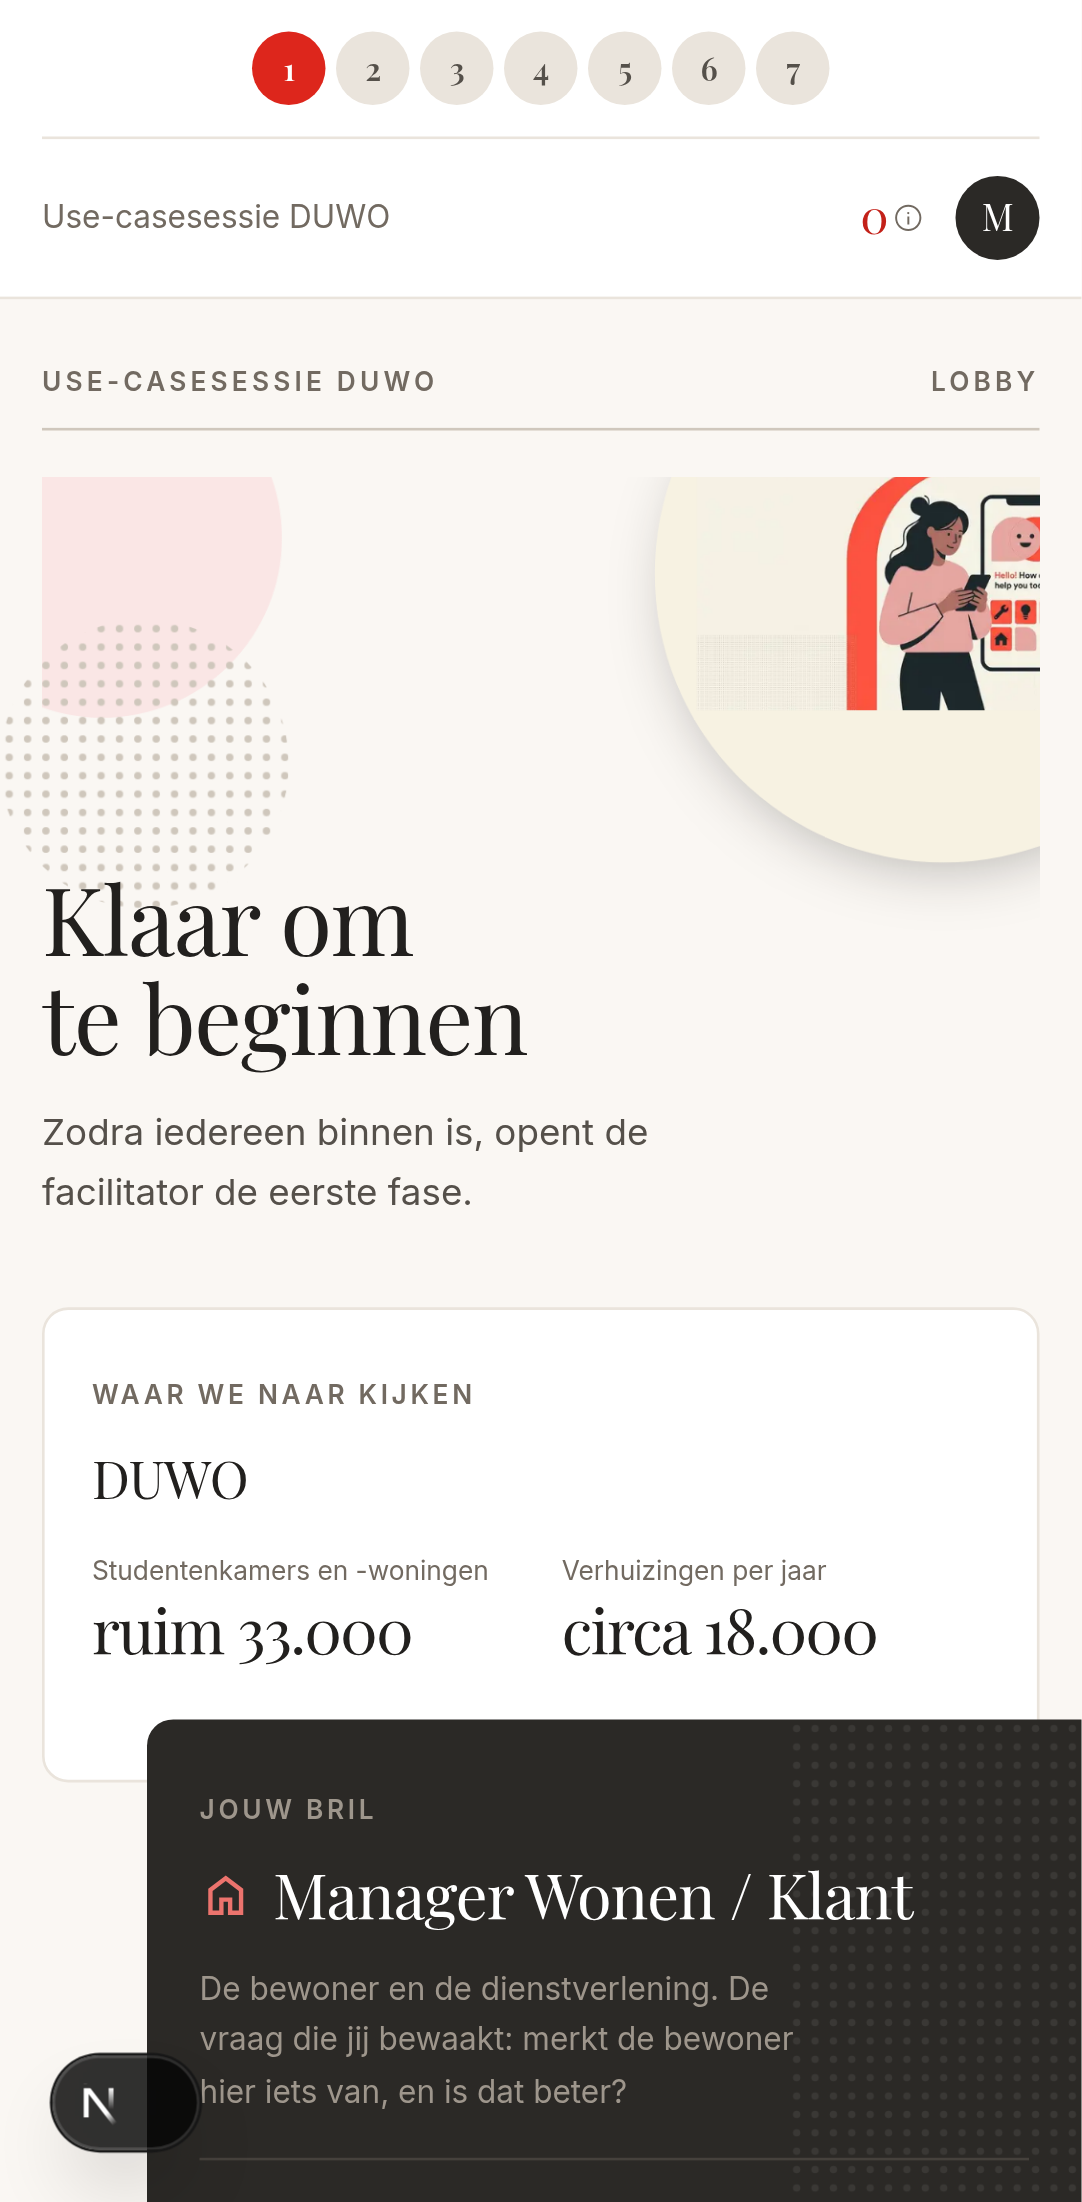
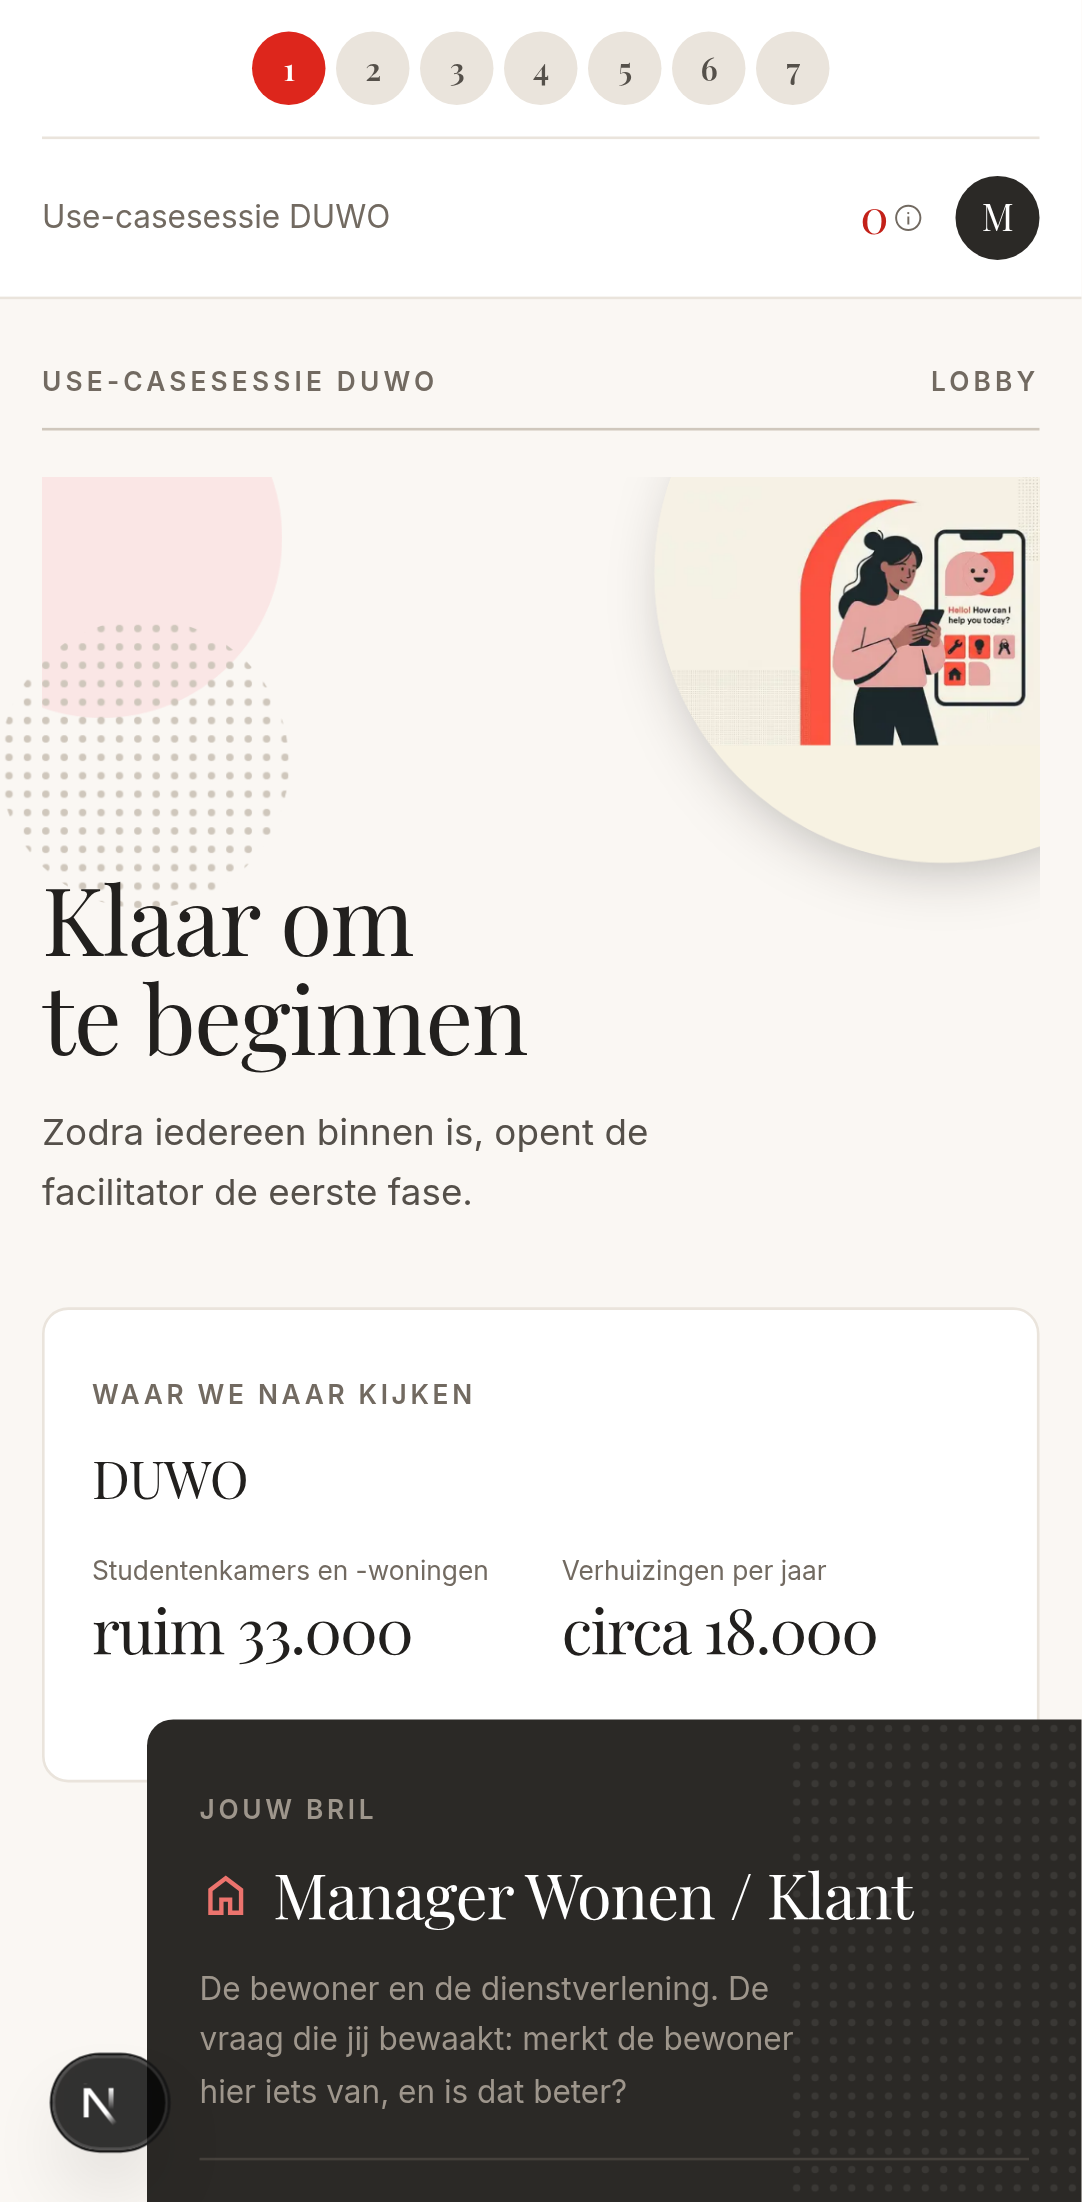
Lobby-illustratie iets naar links en beneden binnen de cirkel
Cirkel.afbeelding kreeg verschuifX/verschuifY: een verschuiving in procenten
van de foto's eigen maat, toegepast als transform op de al ongesneden
(object-contain) afbeelding. De lobby-illustratie gebruikt dit nu om iets
naar links en beneden te schuiven binnen haar cirkel.

Changed region(s): [[0.732, 0.2162, 0.976, 0.3397], [0.122, 0.9264, 0.183, 0.9882]]

diff --git a/src/components/decoratie.tsx b/src/components/decoratie.tsx
@@ -66,8 +66,13 @@ export function Cirkel({
    * zoals de effen vulling: een cirkel snijdt een illustratie al genoeg af aan de buitenrand, en
    * mag het onderwerp zelf niet nóg verder wegsnijden. Net als de effen cirkel puur decoratief —
    * geen tekst hoort hier ooit overheen te vallen.
+   *
+   * `verschuifX`/`verschuifY` schuiven de ongesneden foto op binnen haar cirkel, als percentage
+   * van haar eigen breedte/hoogte — positief is naar rechts/beneden. Puur een fijnkorrelige
+   * duw voor het beeld dat toevallig het beste in de cirkel oogt; de cirkel snijdt de rand af,
+   * dus een lichte verschuiving mag een paar procent van de foto buiten beeld duwen.
    */
-  afbeelding?: { src: string };
+  afbeelding?: { src: string; verschuifX?: number; verschuifY?: number };
 }) {
   const vulling =
     toon === "accent" ? "bg-accent" : toon === "zacht" ? "bg-accent-zacht" : "bg-rand";
@@ -107,6 +112,13 @@ export function Cirkel({
             priority
             sizes="(min-width: 640px) 260px, 55vw"
             className="object-contain p-4"
+            style={
+              afbeelding.verschuifX || afbeelding.verschuifY
+                ? {
+                    transform: `translate(${afbeelding.verschuifX ?? 0}%, ${afbeelding.verschuifY ?? 0}%)`,
+                  }
+                : undefined
+            }
           />
         ) : raster ? (
           <Halftoon className="text-vlak/50" />

diff --git a/src/components/fases/lobby.tsx b/src/components/fases/lobby.tsx
@@ -41,7 +41,7 @@ export function Lobby({
         hoek="rechtsboven"
         formaat={0.58}
         vanBoven={44}
-        afbeelding={{ src: "/illustraties/lobby.jpg" }}
+        afbeelding={{ src: "/illustraties/lobby.jpg", verschuifX: -8, verschuifY: 6 }}
       />
       <Cirkel hoek="linksboven" formaat={0.36} toon="zacht" vanBoven={44} />
 
